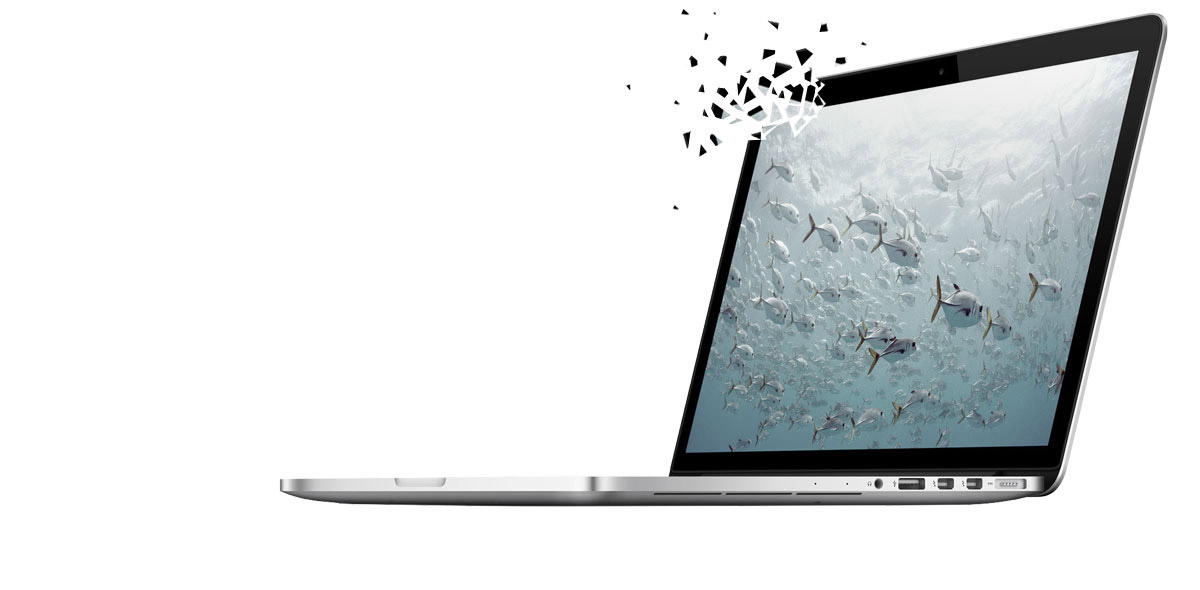
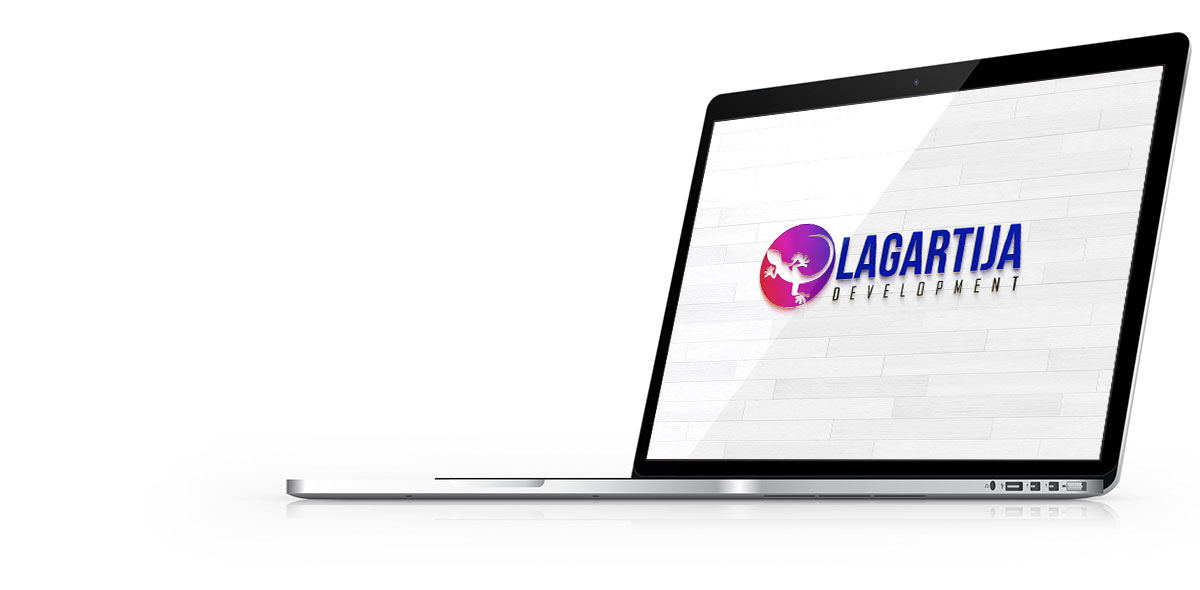
feat: updated some images and colors.

Changed region(s): [[0.2158, 0.0, 1.0, 0.8847], [0.6783, 0.0305, 0.7092, 0.061]]

diff --git a/css/itservice.css b/css/itservice.css
@@ -31,34 +31,34 @@ body, ul.timeline_items, .icon_box a .desc, .icon_box a:hover .desc, .feature_li
 /* Theme color */
 
 .themecolor, .opening_hours .opening_hours_wrapper li span, .fancy_heading_icon .icon_top, .fancy_heading_arrows .icon-right-dir, .fancy_heading_arrows .icon-left-dir, .fancy_heading_line .title, .button-love a.mfn-love, .format-link .post-title .icon-link, .pager-single>span, .pager-single a:hover, .widget_meta ul, .widget_pages ul, .widget_rss ul, .widget_mfn_recent_comments ul li:after, .widget_archive ul, .widget_recent_comments ul li:after, .widget_nav_menu ul, .woocommerce ul.products li.product .price, .shop_slider .shop_slider_ul li .item_wrapper .price, .woocommerce-page ul.products li.product .price, .widget_price_filter .price_label .from, .widget_price_filter .price_label .to, .woocommerce ul.product_list_widget li .quantity .amount, .woocommerce .product div.entry-summary .price, .woocommerce .star-rating span, #Error_404 .error_pic i {
-	color: #37ac50;
+	color: #8b2d6f;
 }
 
 /* Theme background */
 
 .themebg, .pager .pages a:hover, .pager .pages a.active, .pager .pages span.page-numbers.current, .pager-single span:after, #comments .commentlist>li .reply a.comment-reply-link, .fixed-nav .arrow, #Filters .filters_wrapper ul li a:hover, #Filters .filters_wrapper ul li.current-cat a, .widget_categories ul, .Recent_posts ul li .desc:after, .Recent_posts ul li .photo .c, .widget_recent_entries ul li:after, .widget_mfn_menu ul li a:hover, .widget_mfn_menu ul li.current_page_item a, .widget_product_categories ul, div.jp-interface, #Top_bar a#header_cart span, .testimonials_slider .slider_images, .testimonials_slider .slider_images a:after, .testimonials_slider .slider_images:before, .slider_pagination a.selected, .slider_pagination a.selected:after, .tp-bullets.simplebullets.round .bullet.selected, .tp-bullets.simplebullets.round .bullet.selected:after, .tp-leftarrow.default, .tp-rightarrow.default, .tp-bullets.tp-thumbs .bullet.selected:after, .offer_thumb .slider_pagination a:before, .offer_thumb .slider_pagination a.selected:after {
-	background-color: #37ac50;
+	background-color: #8b2d6f;
 }
 .Latest_news ul li .photo {
-	border-color: #37ac50;
+	border-color: #8b2d6f;
 }
 
 /* Links color */
 
 a {
-	color: #37ac50;
+	color: #8b2d6f;
 }
 a:hover {
-	color: #1a6b2b;
+	color: #333b8c;
 }
 
 /* Selections */
 
 *::-moz-selection {
-	background-color: #37ac50;
+	background-color: #8b2d6f;
 }
 *::selection {
-	background-color: #37ac50;
+	background-color: #8b2d6f;
 }
 
 /* Grey */
@@ -91,7 +91,7 @@ h6, h6 a, h6 a:hover, a.content_link .title {
 /* Highlight */
 
 .dropcap, .highlight:not(.highlight_image) {
-	background-color: #37ac50;
+	background-color: #8b2d6f;
 }
 
 /* Buttons */
@@ -112,15 +112,15 @@ a.button, a.tp-button {
 /* .button_theme */
 
 a.button_theme, a.tp-button.button_theme, button, input[type="submit"], input[type="reset"], input[type="button"] {
-	background-color: #37ac50;
+	background-color: #8b2d6f;
 	color: #fff;
 }
 .button-stroke a.button.button_theme, .button-stroke a.button.button_theme .button_icon i, .button-stroke a.tp-button.button_theme, .button-stroke button, .button-stroke input[type="submit"], .button-stroke input[type="reset"], .button-stroke input[type="button"] {
-	border-color: #37ac50;
-	color: #37ac50 !important;
+	border-color: #8b2d6f;
+	color: #8b2d6f !important;
 }
 .button-stroke a.button.button_theme:hover, .button-stroke a.tp-button.button_theme:hover, .button-stroke button:hover, .button-stroke input[type="submit"]:hover, .button-stroke input[type="reset"]:hover, .button-stroke input[type="button"]:hover {
-	background-color: #37ac50 !important;
+	background-color: #8b2d6f !important;
 	color: #fff !important;
 }
 
@@ -130,16 +130,16 @@ a.mfn-link {
 	color: #656B6F;
 }
 a.mfn-link-2 span, a:hover.mfn-link-2 span:before, a.hover.mfn-link-2 span:before, a.mfn-link-5 span, a.mfn-link-8:after, a.mfn-link-8:before {
-	background: #37ac50;
+	background: #8b2d6f;
 }
 a:hover.mfn-link {
-	color: #37ac50;
+	color: #8b2d6f;
 }
 a.mfn-link-2 span:before, a:hover.mfn-link-4:before, a:hover.mfn-link-4:after, a.hover.mfn-link-4:before, a.hover.mfn-link-4:after, a.mfn-link-5:before, a.mfn-link-7:after, a.mfn-link-7:before {
-	background: #1a6b2b;
+	background: #333b8c;
 }
 a.mfn-link-6:before {
-	border-bottom-color: #1a6b2b;
+	border-bottom-color: #333b8c;
 }
 
 /* Shop buttons */
@@ -149,7 +149,7 @@ a.mfn-link-6:before {
 	color: #747474 !important;
 }
 .woocommerce a.button_theme, .woocommerce button.button, .woocommerce input[type="submit"], .woocommerce input[type="reset"], .woocommerce input[type="button"] {
-	background-color: #37ac50 !important;
+	background-color: #8b2d6f !important;
 	color: #fff !important;
 }
 
@@ -162,21 +162,21 @@ a.mfn-link-6:before {
 /* Dividers */
 
 .hr_color, .hr_color hr, .hr_dots span {
-	color: #37ac50;
-	background: #37ac50;
+	color: #8b2d6f;
+	background: #8b2d6f;
 }
 .hr_zigzag i {
-	color: #37ac50;
+	color: #8b2d6f;
 }
 
 /* Highlight section */
 
 .highlight-left:after, .highlight-right:after {
-	background: #37ac50;
+	background: #8b2d6f;
 }
 @media only screen and (max-width: 767px) {
 	.highlight-left .column:first-child, .highlight-right .column:last-child {
-		background: #37ac50;
+		background: #8b2d6f;
 	}
 }
 
@@ -198,13 +198,13 @@ a.mfn-link-6:before {
 	color: #444444;
 }
 #Top_bar .menu>li.current-menu-item>a, #Top_bar .menu>li.current_page_item>a, #Top_bar .menu>li.current-menu-ancestor>a, #Top_bar .menu>li.current_page_ancestor>a, #Top_bar .menu>li.hover>a {
-	color: #37ac50;
+	color: #8b2d6f;
 }
 #Top_bar .menu>li a:after {
-	background: #37ac50;
+	background: #8b2d6f;
 }
 .menu-highlight #Top_bar #menu>ul>li.current-menu-item>a, .menu-highlight #Top_bar #menu>ul>li.current_page_item>a, .menu-highlight #Top_bar #menu>ul>li.current-menu-ancestor>a, .menu-highlight #Top_bar #menu>ul>li.current_page_ancestor>a, .menu-highlight #Top_bar #menu>ul>li.hover>a {
-	background: #37ac50;
+	background: #8b2d6f;
 }
 #Top_bar .menu>li ul {
 	background-color: #F2F2F2;
@@ -216,7 +216,7 @@ a.mfn-link-6:before {
 	color: #2e2e2e;
 }
 #Top_bar .search_wrapper {
-	background: #37ac50;
+	background: #8b2d6f;
 }
 #Subheader .title {
 	color: #888888;
@@ -310,148 +310,148 @@ blockquote, blockquote a, blockquote a:hover {
 }
 .image_frame .image_wrapper .image_links a:hover {
 	background: #fff;
-	color: #37ac50;
+	color: #8b2d6f;
 }
 
 /* Sliding box */
 
 .sliding_box .desc_wrapper {
-	background: #37ac50;
+	background: #8b2d6f;
 }
 .sliding_box .desc_wrapper:after {
-	border-bottom-color: #37ac50;
+	border-bottom-color: #8b2d6f;
 }
 
 /* Counter &amp; Chart */
 
 .counter .icon_wrapper i {
-	color: #37ac50;
+	color: #8b2d6f;
 }
 
 /* Quick facts */
 
 .quick_fact .number {
-	color: #37ac50;
+	color: #8b2d6f;
 }
 
 /* Progress bar */
 
 .progress_bars .bars_list li .bar .progress {
-	background-color: #37ac50;
+	background-color: #8b2d6f;
 }
 
 /* Icon bar */
 
 a:hover.icon_bar {
-	color: #37ac50 !important;
+	color: #8b2d6f !important;
 }
 
 /* Content links */
 
 a.content_link, a:hover.content_link {
-	color: #37ac50;
+	color: #8b2d6f;
 }
 a.content_link:before {
-	border-bottom-color: #37ac50;
+	border-bottom-color: #8b2d6f;
 }
 a.content_link:after {
-	border-color: #37ac50;
+	border-color: #8b2d6f;
 }
 
 /* Get in touch &amp; Infobox */
 
 .get_in_touch, .infobox {
-	background-color: #37ac50;
+	background-color: #8b2d6f;
 }
 .column_map .google-map-contact-wrapper .get_in_touch:after {
-	border-top-color: #37ac50;
+	border-top-color: #8b2d6f;
 }
 
 /* Timeline &amp; Post timeline */
 
 .timeline_items li h3:before, .timeline_items:after, .timeline .post-item:before {
-	border-color: #37ac50;
+	border-color: #8b2d6f;
 }
 
 /* How it works */
 
 .how_it_works .image .number {
-	background: #37ac50;
+	background: #8b2d6f;
 }
 
 /* Trailer box */
 
 .trailer_box .desc .subtitle {
-	background-color: #37ac50;
+	background-color: #8b2d6f;
 }
 
 /* Icon box */
 
 .icon_box .icon_wrapper, .icon_box a .icon_wrapper {
-	color: #37ac50;
+	color: #8b2d6f;
 }
 .icon_box:hover .icon_wrapper:before, .icon_box a:hover .icon_wrapper:before {
-	background-color: #37ac50;
+	background-color: #8b2d6f;
 }
 
 /* Clients */
 
 ul.clients.clients_tiles li .client_wrapper:hover:before {
-	background: #37ac50;
+	background: #8b2d6f;
 }
 ul.clients.clients_tiles li .client_wrapper:after {
-	border-bottom-color: #37ac50;
+	border-bottom-color: #8b2d6f;
 }
 
 /* List */
 
 .list_item.lists_1 .list_left {
-	background-color: #37ac50;
+	background-color: #8b2d6f;
 }
 .list_item .list_left {
-	color: #37ac50;
+	color: #8b2d6f;
 }
 
 /* Features list */
 
 .feature_list ul li .icon i {
-	color: #37ac50;
+	color: #8b2d6f;
 }
 .feature_list ul li:hover, .feature_list ul li:hover a {
-	background: #37ac50;
+	background: #8b2d6f;
 }
 
 /* Tabs, Accordion, Toggle, Table, Faq */
 
 .ui-tabs .ui-tabs-nav li.ui-state-active a, .accordion .question.active .title>.acc-icon-plus, .accordion .question.active .title>.acc-icon-minus, .faq .question.active .title>.acc-icon-plus, .faq .question.active .title, .accordion .question.active .title {
-	color: #37ac50;
+	color: #8b2d6f;
 }
 .ui-tabs .ui-tabs-nav li.ui-state-active a:after {
-	background: #37ac50;
+	background: #8b2d6f;
 }
 table tr:hover td {
-	background: #37ac50;
+	background: #8b2d6f;
 }
 
 /* Pricing */
 
 .pricing-box .plan-header .price sup.currency, .pricing-box .plan-header .price>span {
-	color: #37ac50;
+	color: #8b2d6f;
 }
 .pricing-box .plan-inside ul li .yes {
-	background: #37ac50;
+	background: #8b2d6f;
 }
 .pricing-box-box.pricing-box-featured {
-	background: #37ac50;
+	background: #8b2d6f;
 }
 
 /************************ Shop ************************/
 
 .woocommerce span.onsale, .shop_slider .shop_slider_ul li .item_wrapper span.onsale {
-	border-top-color: #37ac50 !important;
+	border-top-color: #8b2d6f !important;
 }
 .woocommerce .widget_price_filter .ui-slider .ui-slider-handle {
-	border-color: #37ac50 !important;
+	border-color: #8b2d6f !important;
 }
 
 /************************ Responsive ************************/
@@ -850,4 +850,8 @@ p.flv_align_right, div.flv_align_right {
 }
 .flv_float_right, div.flv_float_right {
 	float: right;
+}
+
+#testimonials {
+	background: linear-gradient(to bottom right, #8b2d6f, #333b8c);
 }

diff --git a/index.html b/index.html
@@ -244,7 +244,7 @@
                                 </div>
                             </div>
                         </div>
-                        <div class="section dark " id="testimonials" style="padding-top:90px; padding-bottom:30px; background-color:#37ac50">
+                        <div class="section dark " id="testimonials" style="padding-top:90px; padding-bottom:30px">
                             <div class="section_wrapper clearfix">
                                 <div class="items_group clearfix">
                                     <!-- One full width row-->
